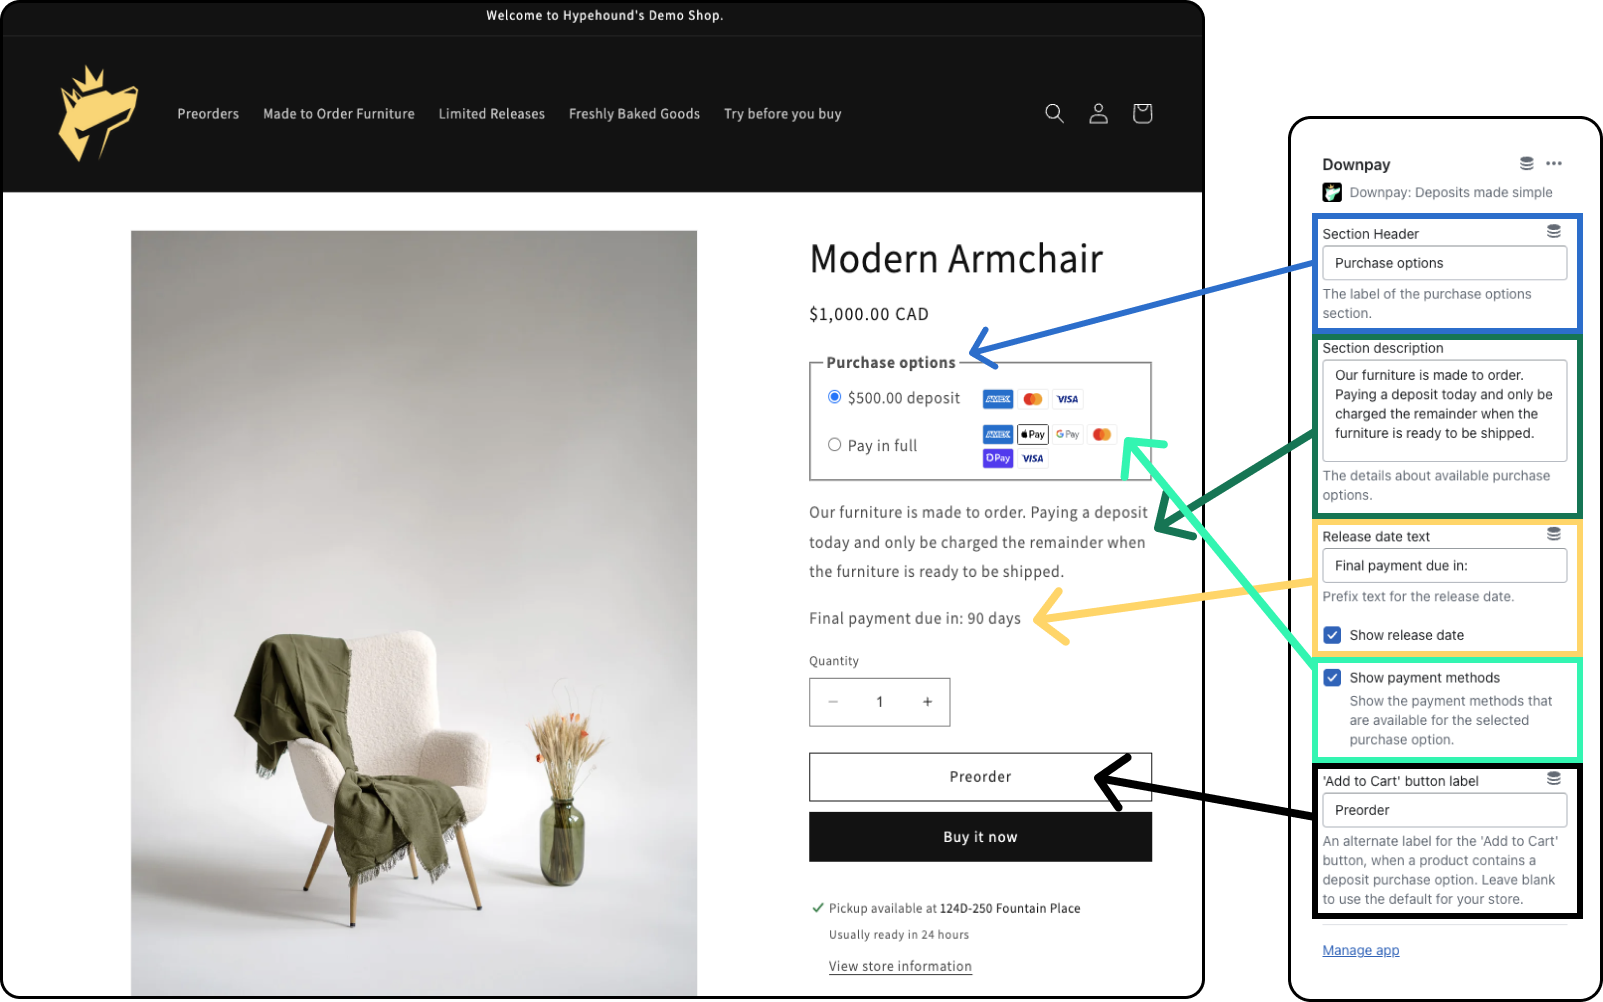
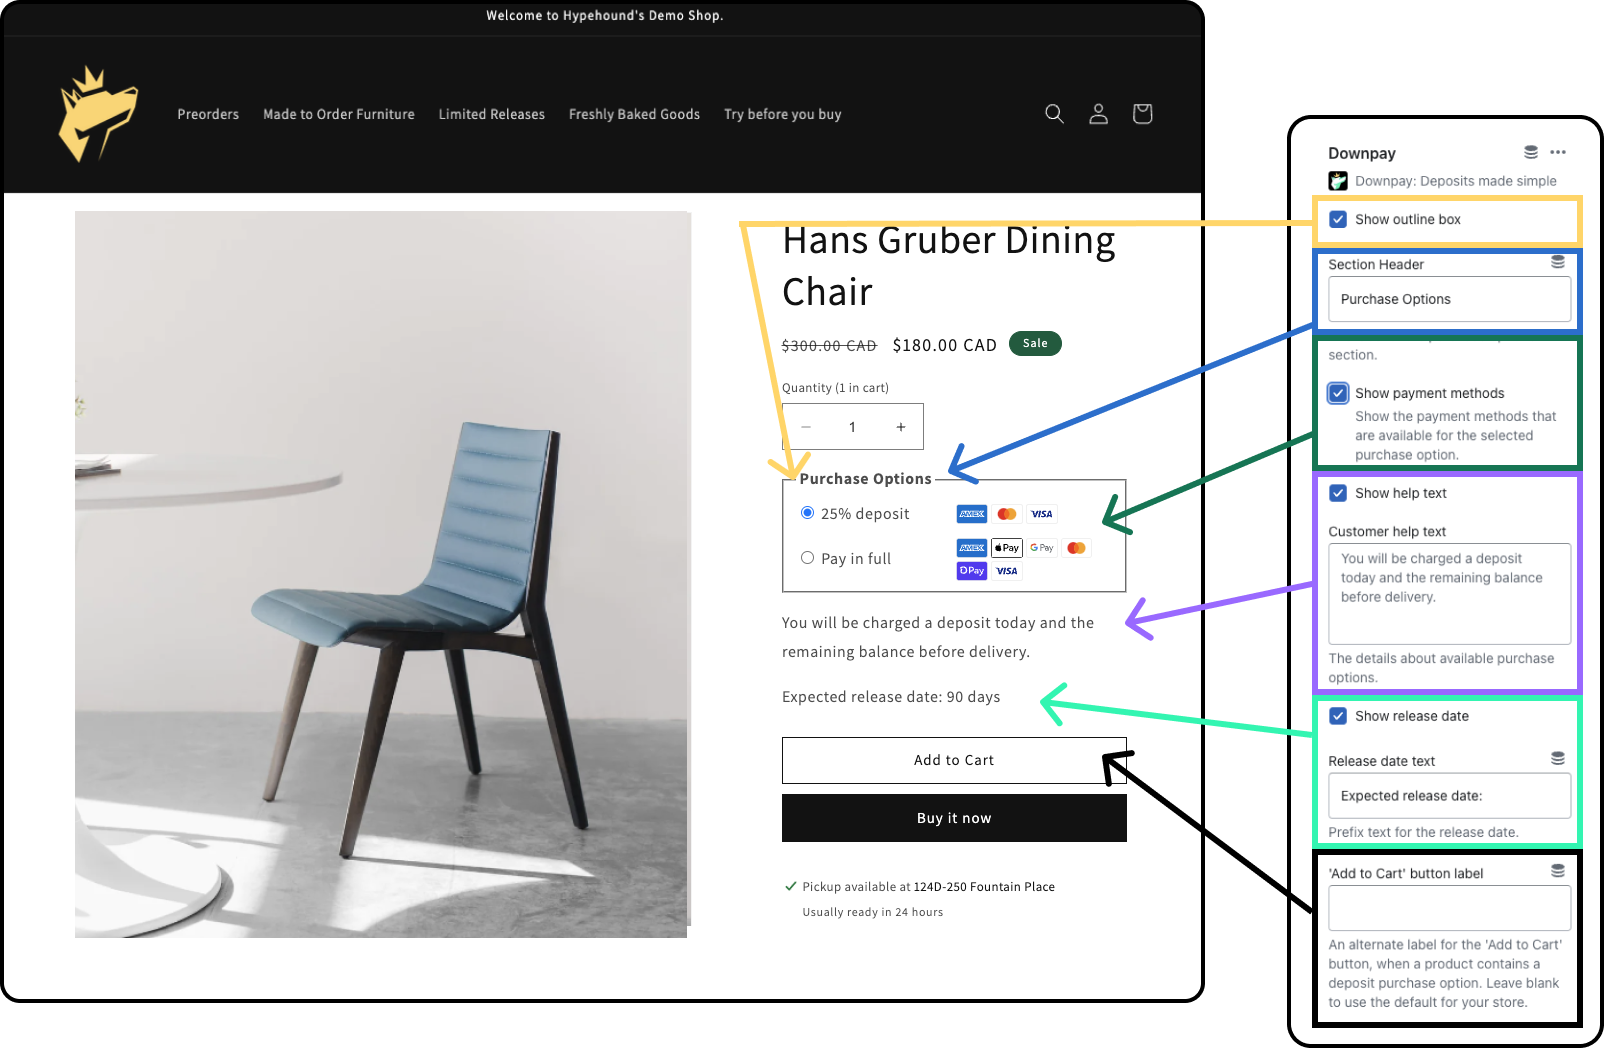
Update to theme docs

diff --git a/docusaurus.config.js b/docusaurus.config.js
@@ -106,6 +106,10 @@ const config = {
                 to: '/initial-setup',
               },
               {
+                label: 'Workflows',
+                to: '/workflows',
+              },
+              {
                 label: 'FAQs',
                 to: '/faqs',
               },
@@ -120,12 +124,12 @@ const config = {
                 href: 'https://www.hypehound.io/about',
               },
               {
-                label: 'Discord',
-                href: 'https://discord.gg/9rfcd3jGUq',
-              },
-              {
                 label: 'Twitter',
                 href: 'https://twitter.com/hypehound_apps',
+              },
+              {
+                label: 'App listing',
+                href: 'https://apps.shopify.com/downpay',
               },
             ],
           },

diff --git a/docs/initial-setup/installing-to-themes.md b/docs/initial-setup/installing-to-themes.md
@@ -48,8 +48,6 @@ Below is a breakdown of all the current features.
 
 ![Product block features](/img/product_theme_features.png)
 
-Boxes come prefilled with copy. If you'd like to remove the copy all together, place a <! ----> in the respective box. (remove the space between the ! and --)
-
 Have a request for additional functionality? Email us at [support@hypehound.io](mailto:support@hypehound.io).
 
 ### Cart block
